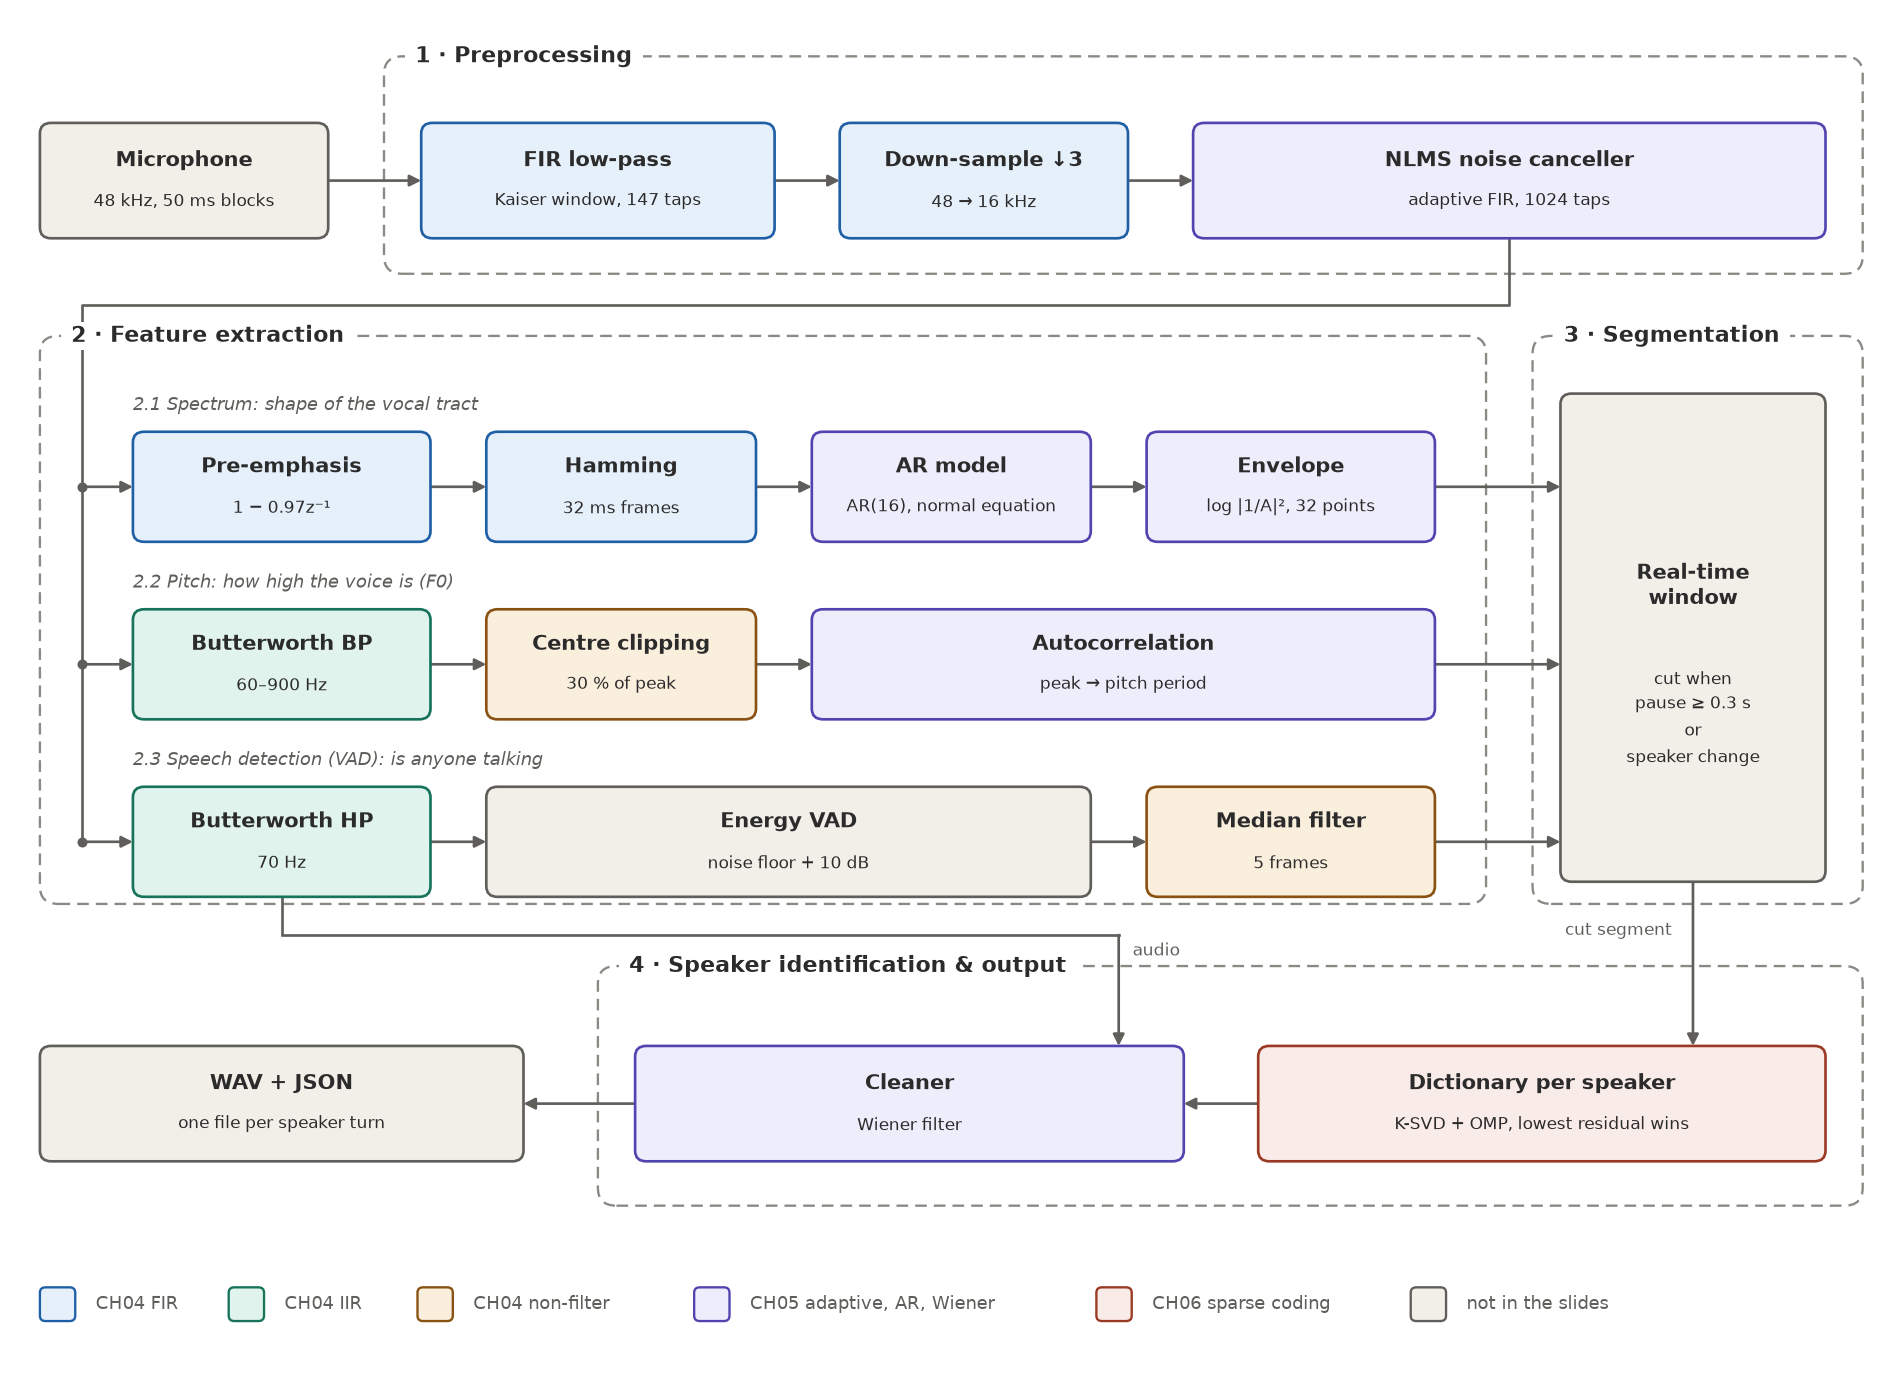
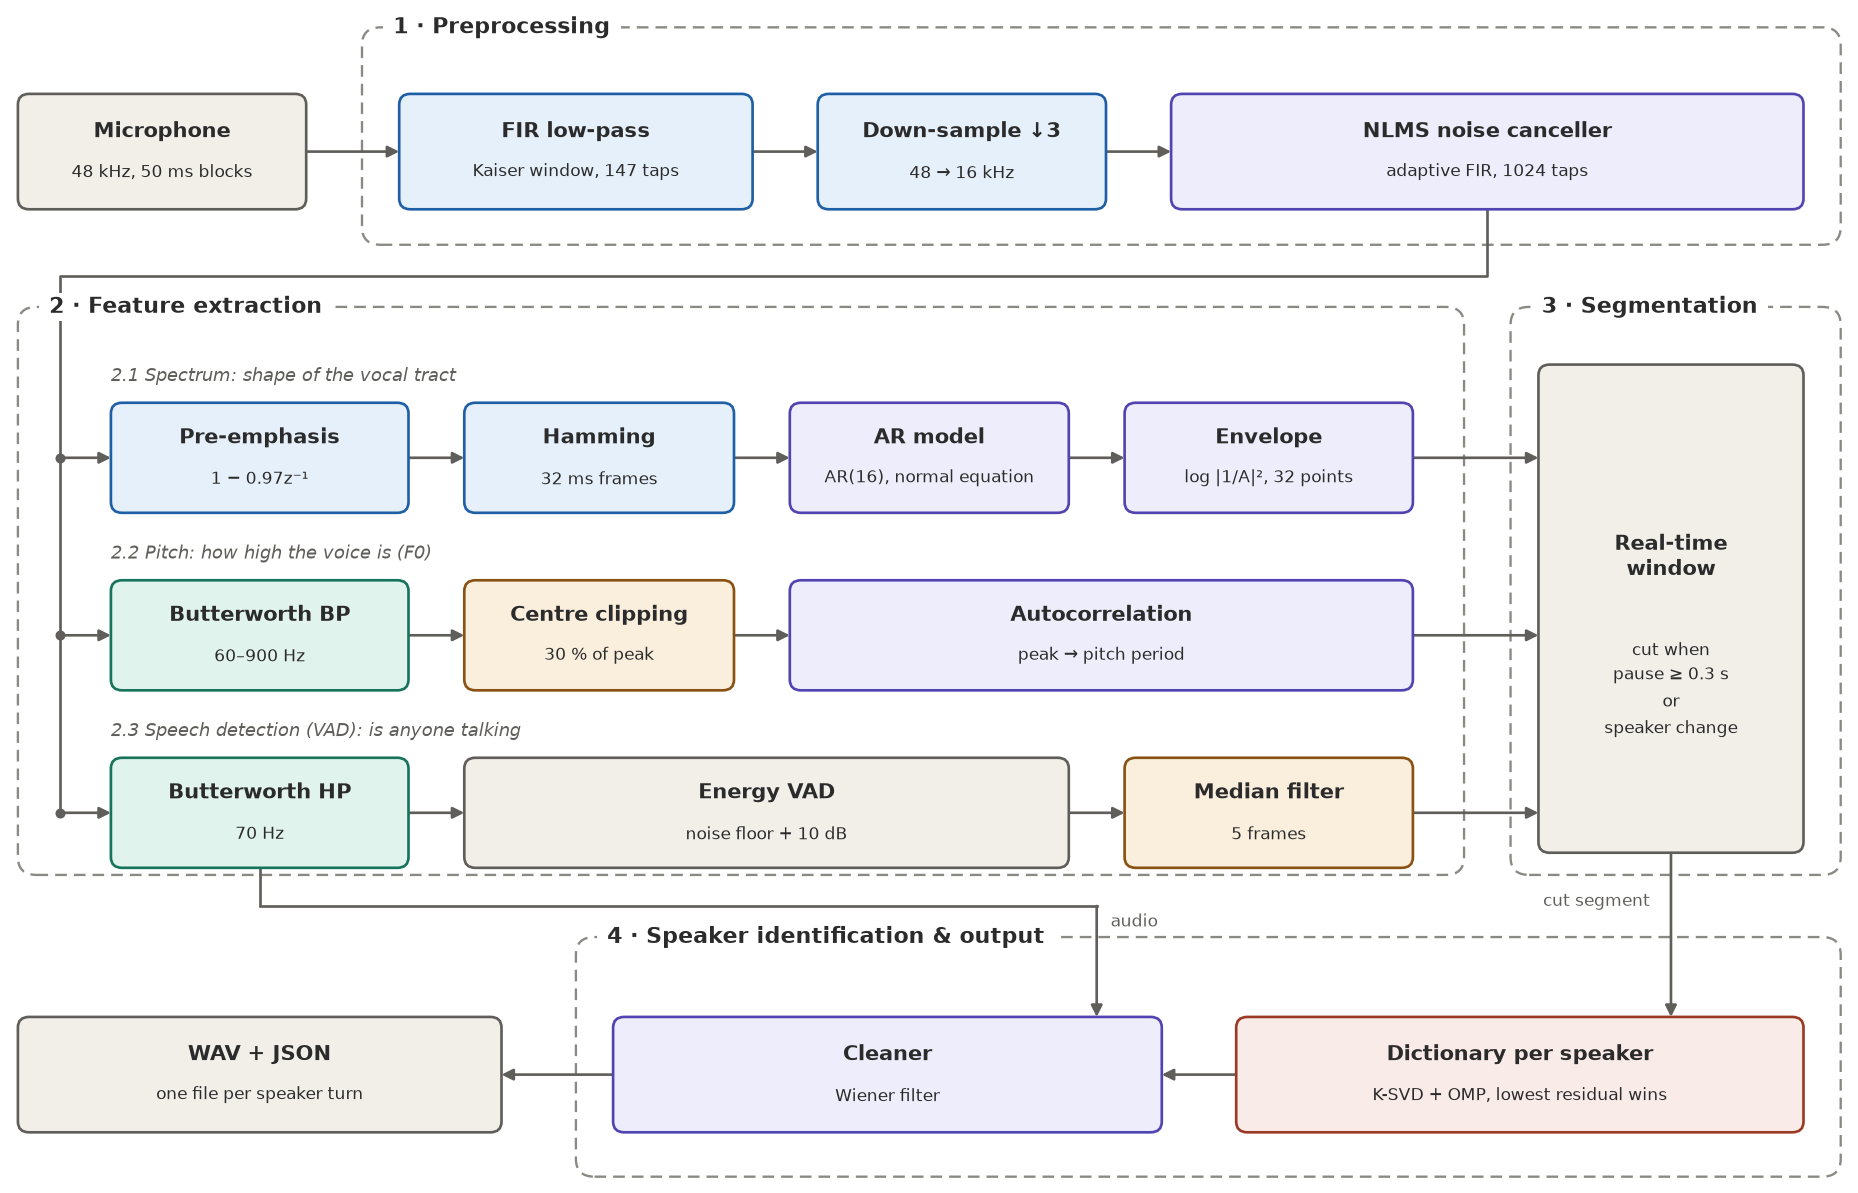
improvement: edit readme

Changed region(s): [[0.0, 0.0, 0.9989, 0.9614], [0.6243, 0.7754, 0.6868, 0.8064]]

diff --git a/README.md b/README.md
@@ -77,8 +77,7 @@ than 20 s) or `flush` (recording stopped).
 
 ## How it works
 
-Audio arrives at 48 kHz in 50 ms blocks and goes through four stages. The colors in the diagram above show which
-chapter of the course each block comes from.
+Audio arrives at 48 kHz in 50 ms blocks and goes through four stages.
 
 | Stage | Block | What it does | Why | Code |
 |---|---|---|---|---|
